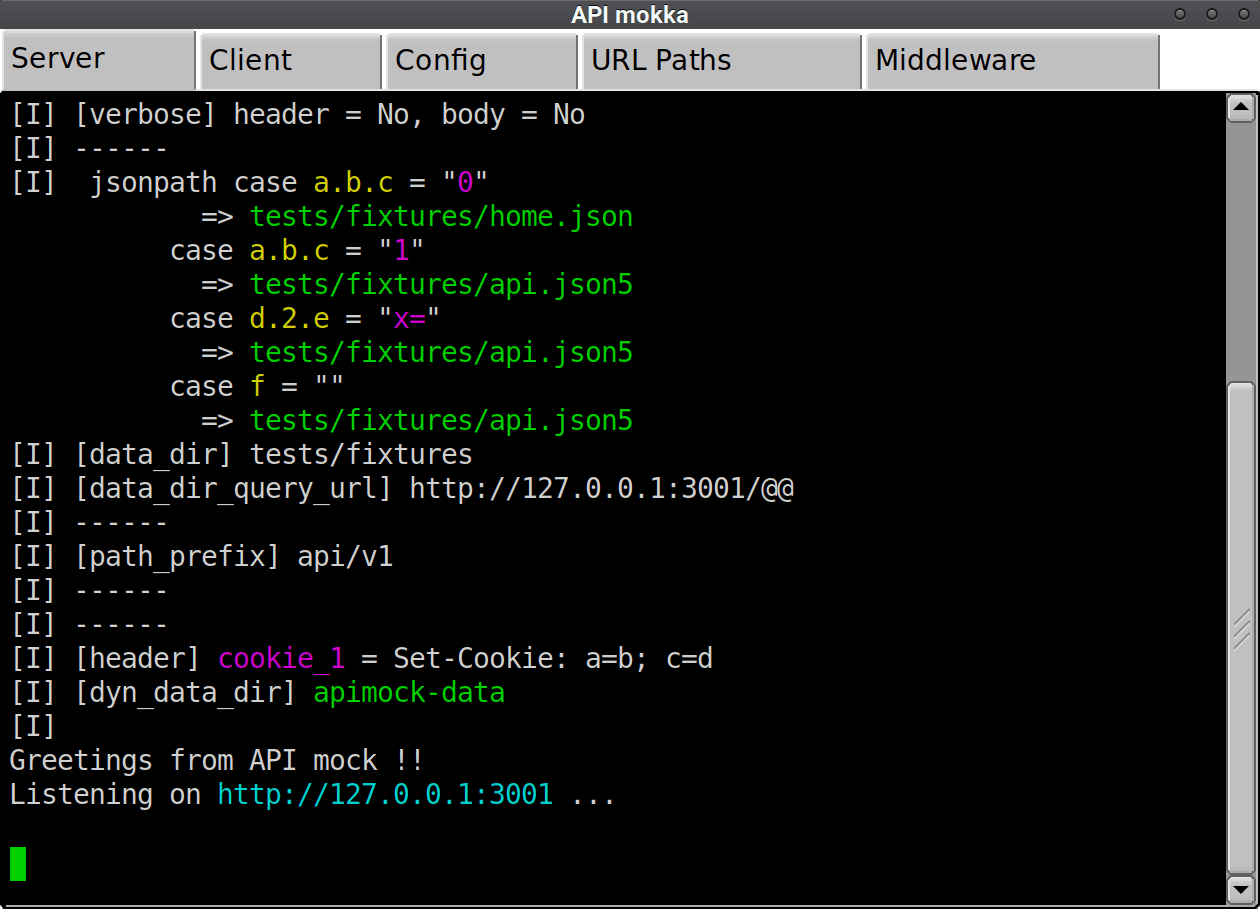
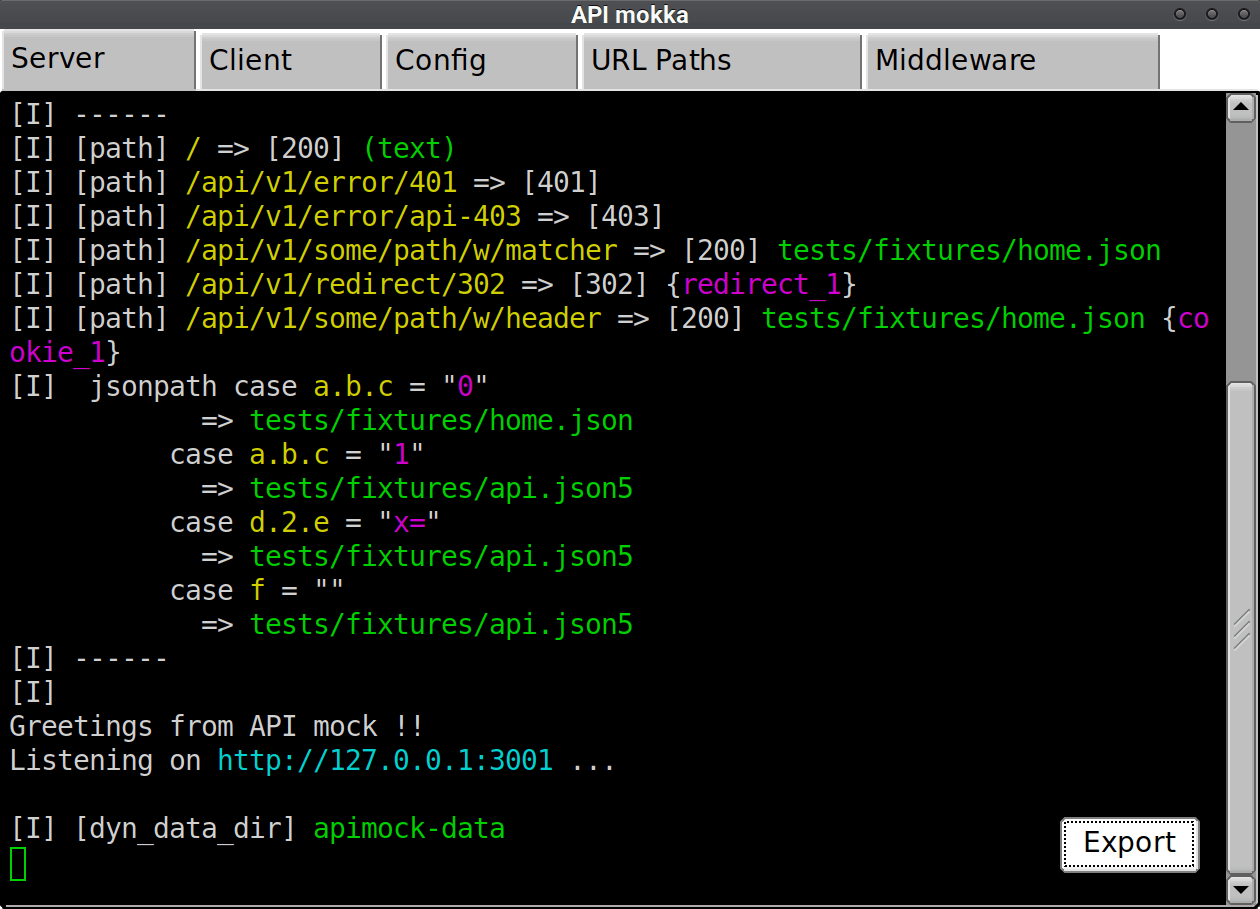
fix #11 fix #12 fix #13 floating buttons to export logs

diff --git a/src/app/tabs/client_tab.rs b/src/app/tabs/client_tab.rs
@@ -1,8 +1,11 @@
+use std::fs;
+
 use chrono::Local;
 use fltk::{
     button::Button,
+    dialog::{FileDialog, FileDialogAction, FileDialogType},
     enums::{Color, Event},
-    group::{Flex, FlexType},
+    group::{Flex, FlexType, Group},
     input::Input,
     prelude::{GroupExt, InputExt, WidgetBase, WidgetExt},
     terminal::Terminal,
@@ -18,8 +21,13 @@ const DEFAULT_COMMAND_LINE: &str = "curl -i http://localhost:3001/";
 /// entry point
 pub fn handle() -> Flex {
     let tab = Flex::default_fill().with_label("Client\t\t").row();
+
+    // container for floating components such as buttons
+    let group = Group::default_fill();
+
     // let mut log_buffer = TextBuffer::default();
     // let mut text_display = TextDisplay::default_fill();
+
     let mut vflex = Flex::default_fill();
     vflex.set_spacing(FLEX_SPACING);
     vflex.set_type(FlexType::Column);
@@ -54,10 +62,35 @@ pub fn handle() -> Flex {
     // text_display.set_linenumber_size(LINE_NUMBER_WIDTH - 3);
     // text_display.set_buffer(Some(log_buffer.clone()));
 
-    command_button.set_callback(move |_| command_button_onclick(&command_line_input, &terminal));
-
     vflex.fixed(&flex, BUTTON_HEIGHT * 2);
     vflex.end();
+
+    // todo: integrate export buttons ?
+    let mut export_button = Button::new(group.width() - 100, group.height() - 50, 70, 30, "Export");
+    export_button.set_color(Color::White);
+    let export_button_terminal = terminal.clone();
+    export_button.set_callback(move |_| {
+        let mut file_dialog = FileDialog::new(FileDialogType::BrowseSaveFile);
+        file_dialog.set_preset_file("apimokka-client.log");
+        match file_dialog.try_show() {
+            Ok(x) => match x {
+                FileDialogAction::Success => (),
+                _ => return,
+            },
+            Err(_) => return,
+        }
+        let save_as_filepath = file_dialog.filename();
+        let save_as_content = export_button_terminal.text(false);
+        match fs::write(save_as_filepath, save_as_content) {
+            Ok(_) => (),
+            Err(err) => eprintln!("{}", err),
+        }
+    });
+
+    command_button.set_callback(move |_| command_button_onclick(&command_line_input, &terminal));
+
+    group.end();
+
     tab.end();
 
     tab

diff --git a/src/app/tabs/server_tab.rs b/src/app/tabs/server_tab.rs
@@ -1,9 +1,11 @@
-use std::sync::Arc;
+use std::{fs, sync::Arc};
 
 use fltk::{
     app,
-    enums::Event,
-    group::Flex,
+    button::Button,
+    dialog::{FileDialog, FileDialogAction, FileDialogType},
+    enums::{Color, Event},
+    group::{Flex, Group},
     prelude::{GroupExt, WidgetBase, WidgetExt},
     terminal::Terminal,
 };
@@ -12,6 +14,9 @@ use tokio::sync::{mpsc::Receiver, Mutex};
 /// entry point
 pub fn handle(server_proc_tx: Arc<Mutex<Receiver<String>>>) -> Flex {
     let tab = Flex::default_fill().with_label("Server\t\t").row();
+
+    // container for floating components such as buttons
+    let group = Group::default_fill();
 
     let mut terminal = Terminal::default_fill();
     terminal.set_ansi(true);
@@ -22,6 +27,28 @@ pub fn handle(server_proc_tx: Arc<Mutex<Receiver<String>>>) -> Flex {
             true
         }
         _ => false,
+    });
+
+    // todo: integrate export buttons ?
+    let mut export_button = Button::new(group.width() - 100, group.height() - 50, 70, 30, "Export");
+    export_button.set_color(Color::White);
+    let export_button_terminal = terminal.clone();
+    export_button.set_callback(move |_| {
+        let mut file_dialog = FileDialog::new(FileDialogType::BrowseSaveFile);
+        file_dialog.set_preset_file("apimokka-server.log");
+        match file_dialog.try_show() {
+            Ok(x) => match x {
+                FileDialogAction::Success => (),
+                _ => return,
+            },
+            Err(_) => return,
+        }
+        let save_as_filepath = file_dialog.filename();
+        let save_as_content = export_button_terminal.text(false);
+        match fs::write(save_as_filepath, save_as_content) {
+            Ok(_) => (),
+            Err(err) => eprintln!("{}", err),
+        }
     });
 
     let _ = tokio::spawn(async move {
@@ -41,6 +68,8 @@ pub fn handle(server_proc_tx: Arc<Mutex<Receiver<String>>>) -> Flex {
             }
         }
     });
+
+    group.end();
 
     tab.end();
 
